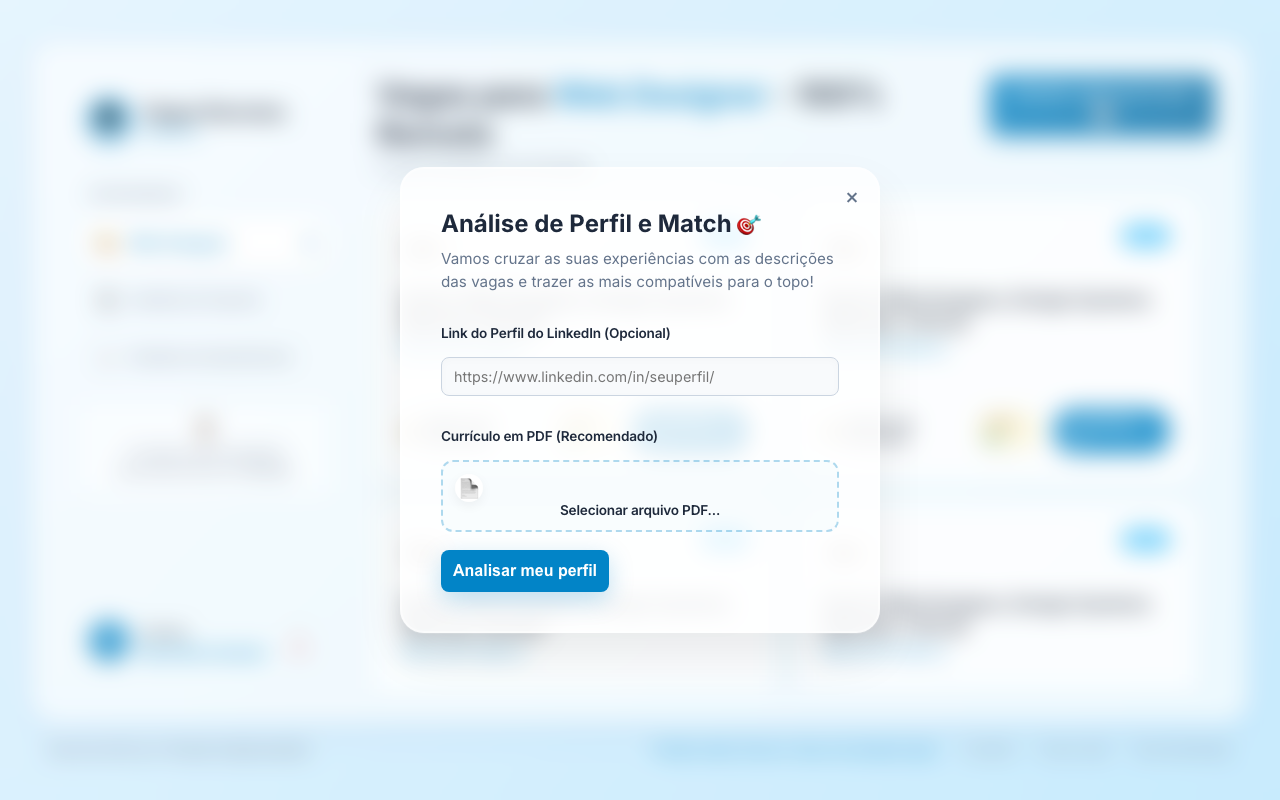
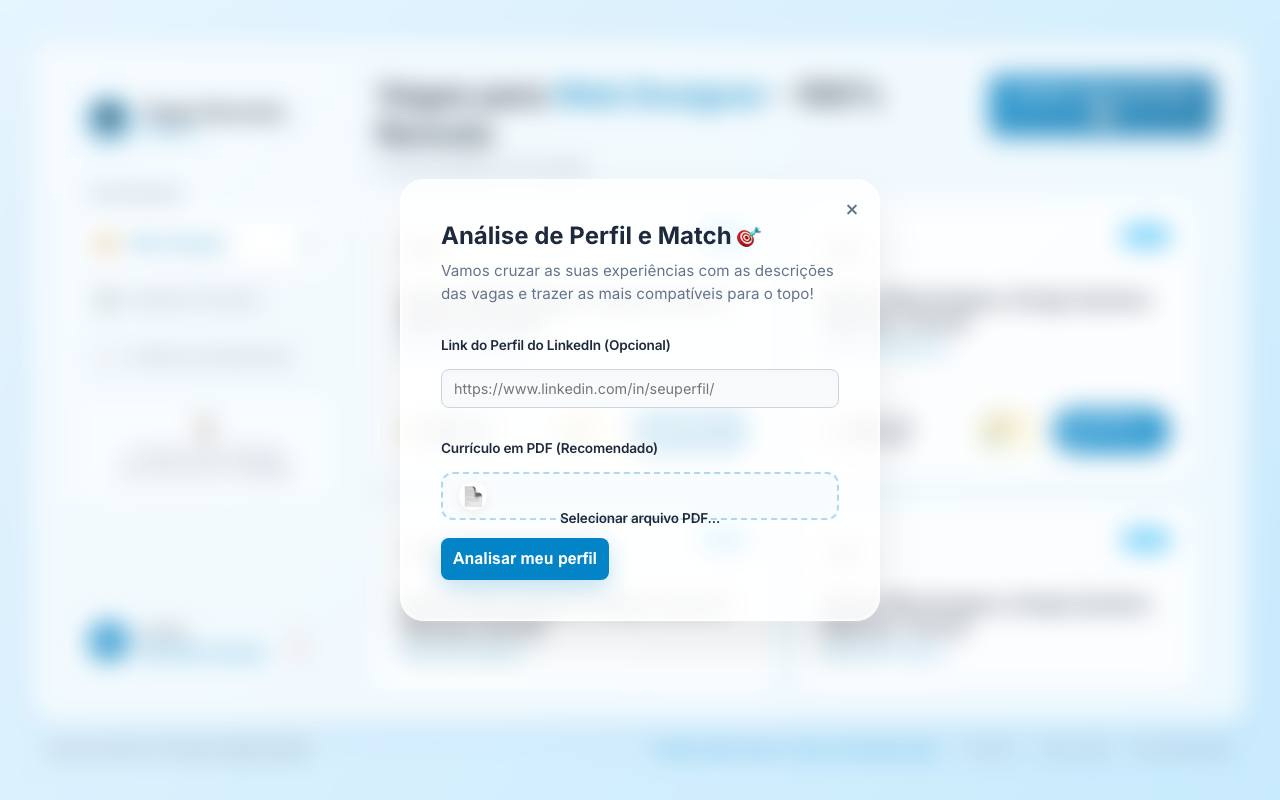
Force strict vertical alignment and fixed small height for file upload box

diff --git a/vagas-app/src/components/ProfileModal.css b/vagas-app/src/components/ProfileModal.css
@@ -101,7 +101,7 @@
   align-items: center;
   justify-content: center;
   gap: 8px;
-  padding: 12px;
+  padding: 8px 16px;
   border: 2px dashed rgba(2, 132, 199, 0.3);
   border-radius: 12px;
   background: rgba(2, 132, 199, 0.02);
@@ -111,6 +111,15 @@
   font-size: 0.85rem;
   font-weight: 500;
   text-align: center;
+  height: 48px; /* Força uma altura fixa pequenininha */
+  box-sizing: border-box;
+}
+
+.file-label > span {
+  display: inline-flex;
+  align-items: center;
+  margin: 0;
+  line-height: 1;
 }
 
 .file-selected-state {
